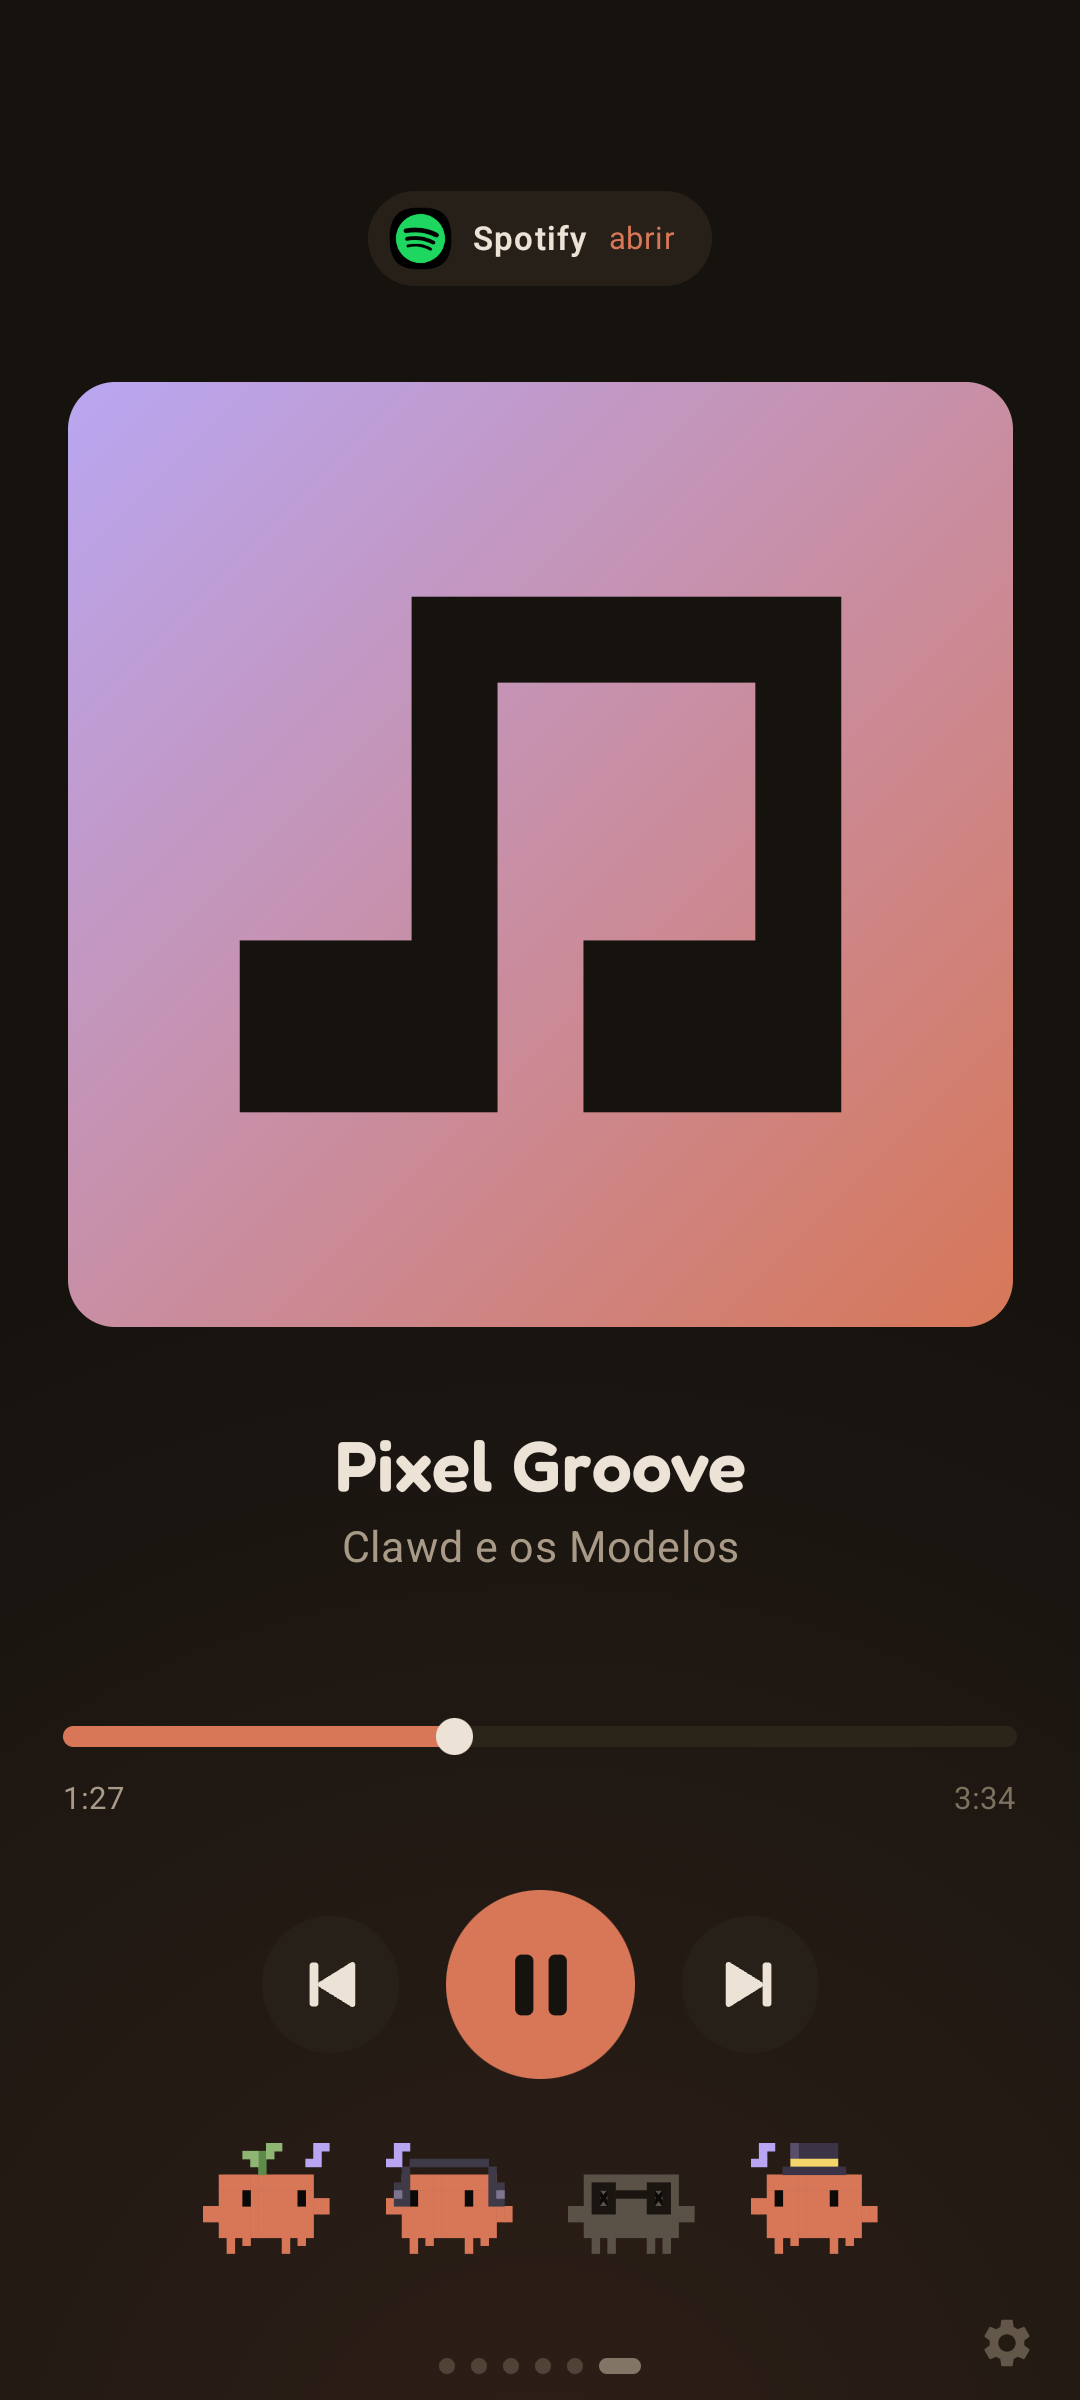
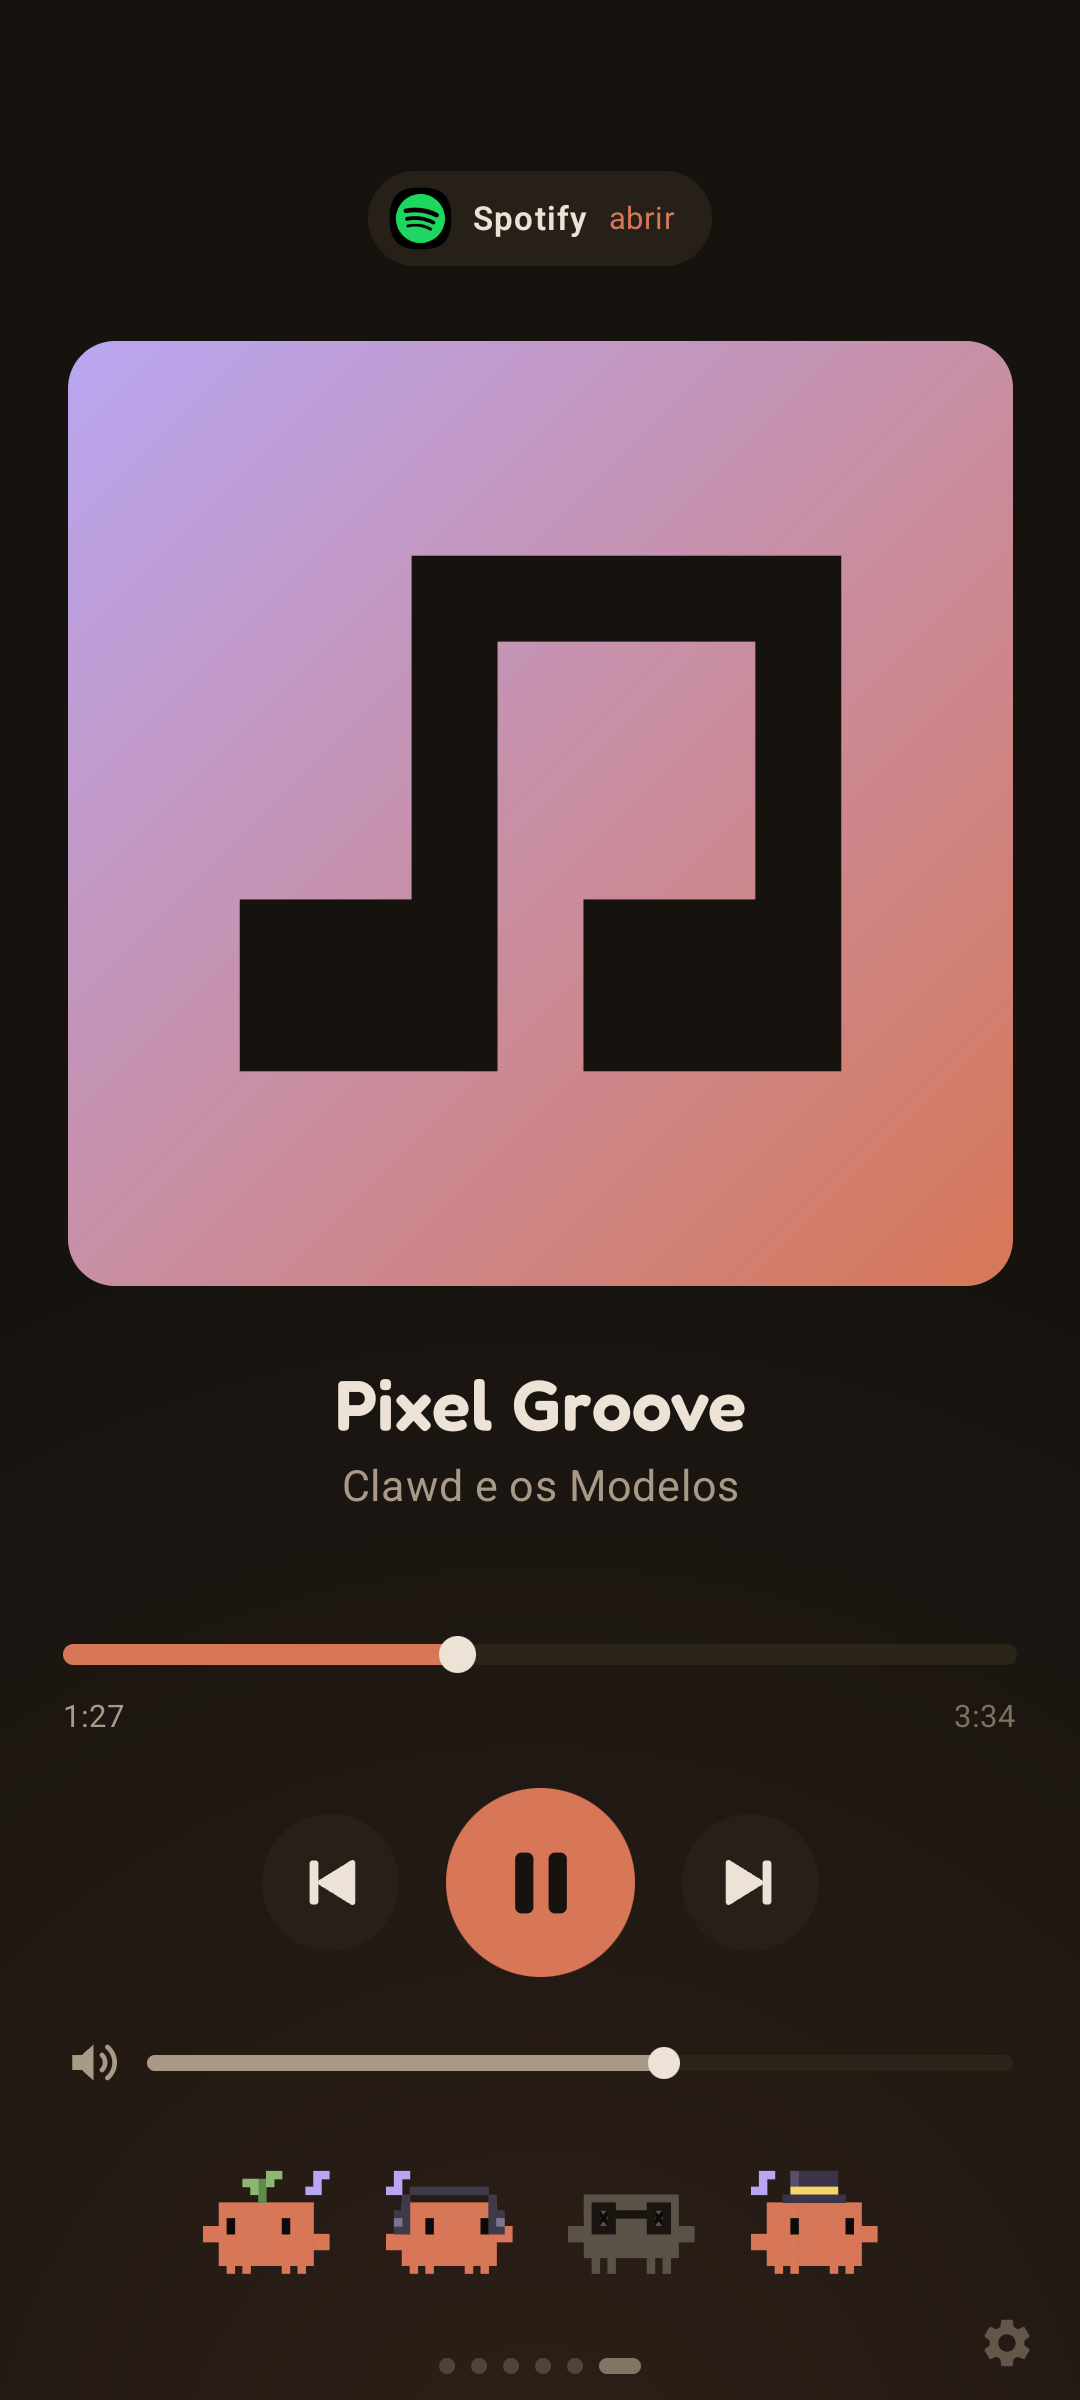
Clawdboard 1.4.1: volume na tela de música
Barra de volume na tela "Tocando agora", ao lado do app em paisagem e
abaixo dos botões em retrato. Ajusta o volume de mídia do celular ou,
quando o app manda o som para outro aparelho, o volume desse aparelho.
Acompanha os botões físicos do celular.

diff --git a/app/src/main/java/dev/clawdboard/ui/MusicPage.kt b/app/src/main/java/dev/clawdboard/ui/MusicPage.kt
@@ -30,8 +30,10 @@ import androidx.compose.foundation.shape.RoundedCornerShape
 import androidx.compose.material3.Text
 import androidx.compose.runtime.Composable
 import androidx.compose.runtime.getValue
+import androidx.compose.runtime.mutableIntStateOf
 import androidx.compose.runtime.mutableStateOf
 import androidx.compose.runtime.remember
+import androidx.compose.runtime.rememberUpdatedState
 import androidx.compose.runtime.setValue
 import androidx.compose.ui.Alignment
 import androidx.compose.ui.Modifier
@@ -43,6 +45,7 @@ import androidx.compose.ui.geometry.Size
 import androidx.compose.ui.graphics.Color
 import androidx.compose.ui.graphics.ColorFilter
 import androidx.compose.ui.graphics.Path
+import androidx.compose.ui.graphics.StrokeCap
 import androidx.compose.ui.graphics.StrokeJoin
 import androidx.compose.ui.graphics.asImageBitmap
 import androidx.compose.ui.graphics.drawscope.Stroke
@@ -65,6 +68,7 @@ import dev.clawdboard.core.Music
 import dev.clawdboard.core.NOTE_PIXELS
 import dev.clawdboard.core.Repository
 import dev.clawdboard.core.Track
+import kotlin.math.roundToInt
 
 private enum class Glyph { PLAY, PAUSE, NEXT, PREV }
 
@@ -97,7 +101,11 @@ fun MusicPage(music: Music, st: Repository.State, landscape: Boolean, compact: B
             Cover(t, Modifier.fillMaxHeight().aspectRatio(1f, matchHeightConstraintsFirst = true))
             Spacer(Modifier.width(if (compact) 22.dp else 32.dp))
             Column(Modifier.weight(1f).fillMaxHeight(), verticalArrangement = Arrangement.SpaceBetween) {
-                AppChip(t.appIcon, t.app, "abrir") { music.open(context) }
+                Row(Modifier.fillMaxWidth(), verticalAlignment = Alignment.CenterVertically) {
+                    AppChip(t.appIcon, t.app, "abrir") { music.open(context) }
+                    Spacer(Modifier.width(20.dp))
+                    VolumeBar(music, Modifier.weight(1f))
+                }
                 TrackText(t, compact, TextAlign.Start)
                 Column {
                     Progress(t, music::seek)
@@ -117,6 +125,7 @@ fun MusicPage(music: Music, st: Repository.State, landscape: Boolean, compact: B
             TrackText(t, compact, TextAlign.Center)
             Progress(t, music::seek)
             Controls(t, music, compact)
+            VolumeBar(music, Modifier.widthIn(max = 360.dp).padding(top = 4.dp, bottom = 10.dp))
             MascotRow(st.status, Modifier.widthIn(max = 300.dp), usage = st.usage, clawdWidth = 48.dp, labels = false)
         }
     }
@@ -222,35 +231,121 @@ private fun Progress(t: Track, onSeek: (Long) -> Unit) {
     val pos = remember(LocalNow.current, t) { t.positionNow() }
     var drag by remember { mutableStateOf<Float?>(null) }
     val f = drag ?: (pos.toFloat() / t.duration).coerceIn(0f, 1f)
-    val seek = if (!t.canSeek) Modifier else Modifier
-        .pointerInput(t.duration) {
-            detectTapGestures { o -> onSeek(((o.x / size.width).coerceIn(0f, 1f) * t.duration).toLong()) }
-        }
-        .pointerInput(t.duration) {
-            detectHorizontalDragGestures(
-                onDragStart = { o -> drag = (o.x / size.width).coerceIn(0f, 1f) },
-                onDragEnd = {
-                    drag?.let { onSeek((it * t.duration).toLong()) }
-                    drag = null
-                },
-                onDragCancel = { drag = null },
-                onHorizontalDrag = { change, _ ->
-                    change.consume()
-                    drag = (change.position.x / size.width).coerceIn(0f, 1f)
-                },
-            )
-        }
     Column(Modifier.fillMaxWidth()) {
-        BoxWithConstraints(Modifier.fillMaxWidth().height(26.dp).then(seek), contentAlignment = Alignment.CenterStart) {
-            Box(Modifier.fillMaxWidth().height(8.dp).clip(RoundedCornerShape(50)).background(C.track)) {
-                if (f > 0f) Box(Modifier.fillMaxHeight().fillMaxWidth(f).clip(RoundedCornerShape(50)).background(C.clawd))
-            }
-            if (t.canSeek) Box(Modifier.offset(x = (maxWidth - 14.dp) * f).size(14.dp).clip(CircleShape).background(C.text))
-        }
+        DragBar(
+            f, t.canSeek, C.clawd, 8.dp, 14.dp,
+            onDrag = { drag = it },
+            onRelease = {
+                onSeek((it * t.duration).toLong())
+                drag = null
+            },
+        )
         Row(Modifier.fillMaxWidth()) {
             Text(fmtTrack(drag?.let { (it * t.duration).toLong() } ?: pos), color = C.muted, fontSize = 13.sp)
             Spacer(Modifier.weight(1f))
             Text(fmtTrack(t.duration), color = C.dim, fontSize = 13.sp)
+        }
+    }
+}
+
+@Composable
+private fun VolumeBar(music: Music, modifier: Modifier) {
+    var version by remember { mutableIntStateOf(0) }
+    val v = remember(LocalNow.current, version) { music.volume() } ?: return
+    var drag by remember { mutableStateOf<Float?>(null) }
+    var sent by remember { mutableIntStateOf(-1) }
+    fun send(f: Float) {
+        val level = (f * v.max).roundToInt()
+        if (level != sent) {
+            sent = level
+            music.setVolume(level)
+        }
+    }
+    val f = drag ?: (v.level.toFloat() / v.max).coerceIn(0f, 1f)
+    Row(modifier, verticalAlignment = Alignment.CenterVertically) {
+        SpeakerIcon(f, C.muted, Modifier.size(20.dp))
+        Spacer(Modifier.width(10.dp))
+        DragBar(
+            f, true, C.muted, 6.dp, 12.dp,
+            onDrag = {
+                drag = it
+                send(it)
+            },
+            onRelease = {
+                send(it)
+                drag = null
+                sent = -1
+                version++
+            },
+            modifier = Modifier.weight(1f).semantics { contentDescription = "Volume" },
+        )
+    }
+}
+
+@Composable
+private fun DragBar(
+    f: Float,
+    enabled: Boolean,
+    color: Color,
+    barHeight: Dp,
+    thumb: Dp,
+    onDrag: (Float) -> Unit,
+    onRelease: (Float) -> Unit,
+    modifier: Modifier = Modifier,
+) {
+    val drag by rememberUpdatedState(onDrag)
+    val release by rememberUpdatedState(onRelease)
+    val gestures = if (!enabled) Modifier else Modifier
+        .pointerInput(Unit) {
+            detectTapGestures { o -> release((o.x / size.width).coerceIn(0f, 1f)) }
+        }
+        .pointerInput(Unit) {
+            var last = 0f
+            detectHorizontalDragGestures(
+                onDragStart = { o ->
+                    last = (o.x / size.width).coerceIn(0f, 1f)
+                    drag(last)
+                },
+                onDragEnd = { release(last) },
+                onDragCancel = { release(last) },
+                onHorizontalDrag = { change, _ ->
+                    change.consume()
+                    last = (change.position.x / size.width).coerceIn(0f, 1f)
+                    drag(last)
+                },
+            )
+        }
+    BoxWithConstraints(modifier.fillMaxWidth().height(thumb + 12.dp).then(gestures), contentAlignment = Alignment.CenterStart) {
+        Box(Modifier.fillMaxWidth().height(barHeight).clip(RoundedCornerShape(50)).background(C.track)) {
+            if (f > 0f) Box(Modifier.fillMaxHeight().fillMaxWidth(f).clip(RoundedCornerShape(50)).background(color))
+        }
+        if (enabled) Box(Modifier.offset(x = (maxWidth - thumb) * f).size(thumb).clip(CircleShape).background(C.text))
+    }
+}
+
+@Composable
+private fun SpeakerIcon(f: Float, color: Color, modifier: Modifier) {
+    Canvas(modifier) {
+        val w = size.width
+        val h = size.height
+        val cone = Path().apply {
+            moveTo(w * 0.08f, h * 0.36f)
+            lineTo(w * 0.26f, h * 0.36f)
+            lineTo(w * 0.48f, h * 0.16f)
+            lineTo(w * 0.48f, h * 0.84f)
+            lineTo(w * 0.26f, h * 0.64f)
+            lineTo(w * 0.08f, h * 0.64f)
+            close()
+        }
+        drawPath(cone, color)
+        val line = w * 0.09f
+        if (f <= 0f) {
+            drawLine(color, Offset(w * 0.64f, h * 0.38f), Offset(w * 0.88f, h * 0.62f), line, StrokeCap.Round)
+            drawLine(color, Offset(w * 0.64f, h * 0.62f), Offset(w * 0.88f, h * 0.38f), line, StrokeCap.Round)
+        } else {
+            val arc = Stroke(width = line, cap = StrokeCap.Round)
+            drawArc(color, -45f, 90f, false, Offset(w * 0.3f, h * 0.5f - w * 0.2f), Size(w * 0.4f, w * 0.4f), style = arc)
+            if (f > 0.5f) drawArc(color, -50f, 100f, false, Offset(w * 0.12f, h * 0.5f - w * 0.38f), Size(w * 0.76f, w * 0.76f), style = arc)
         }
     }
 }

diff --git a/app/src/main/java/dev/clawdboard/core/Music.kt b/app/src/main/java/dev/clawdboard/core/Music.kt
@@ -11,7 +11,9 @@ import android.graphics.LinearGradient
 import android.graphics.Paint
 import android.graphics.Shader
 import android.graphics.drawable.Icon
+import android.media.AudioManager
 import android.media.MediaMetadata
+import android.media.VolumeProvider
 import android.media.session.MediaController
 import android.media.session.MediaSessionManager
 import android.media.session.PlaybackState
@@ -56,6 +58,8 @@ data class Track(
 
 data class MediaApp(val pkg: String, val label: String, val icon: Bitmap?)
 
+data class Volume(val level: Int, val max: Int)
+
 fun livePosition(position: Long, at: Long, speed: Float, playing: Boolean, duration: Long, now: Long): Long {
     val p = if (playing && at > 0 && position >= 0) position + ((now - at) * speed).toLong() else position
     val floor = p.coerceAtLeast(0)
@@ -75,6 +79,8 @@ class Music(private val app: Context) {
     private val main = Handler(Looper.getMainLooper())
     private val sessions = app.getSystemService(MediaSessionManager::class.java)
     private val listener = ComponentName(app, MediaListener::class.java)
+    private val audio = app.getSystemService(AudioManager::class.java)
+    private var demoVolume = 9
 
     private val _track = MutableStateFlow<Track?>(null)
     val track: StateFlow<Track?> = _track.asStateFlow()
@@ -263,6 +269,34 @@ class Music(private val app: Context) {
             return
         }
         current?.transportControls?.seekTo(ms)
+    }
+
+    private fun remoteInfo(): MediaController.PlaybackInfo? =
+        current?.playbackInfo?.takeIf { it.playbackType == MediaController.PlaybackInfo.PLAYBACK_TYPE_REMOTE }
+
+    fun volume(): Volume? {
+        if (demo) return Volume(demoVolume, 15)
+        val remote = remoteInfo()
+        if (remote != null) {
+            if (remote.volumeControl == VolumeProvider.VOLUME_CONTROL_FIXED || remote.maxVolume <= 0) return null
+            return Volume(remote.currentVolume, remote.maxVolume)
+        }
+        if (audio.isVolumeFixed) return null
+        val max = audio.getStreamMaxVolume(AudioManager.STREAM_MUSIC)
+        return if (max <= 0) null else Volume(audio.getStreamVolume(AudioManager.STREAM_MUSIC), max)
+    }
+
+    fun setVolume(level: Int) {
+        if (demo) {
+            demoVolume = level.coerceIn(0, 15)
+            return
+        }
+        val c = current
+        if (c != null && remoteInfo() != null) {
+            c.setVolumeTo(level, 0)
+        } else {
+            runCatching { audio.setStreamVolume(AudioManager.STREAM_MUSIC, level, 0) }
+        }
     }
 
     fun extra(a: TrackAction) {

diff --git a/README.md b/README.md
@@ -49,7 +49,7 @@ Painel web, aberto no navegador do PC pela rede local:
 | Modos de tela | Estático, mascotes, carrossel ou relógio de mesa: dashboard, mascotes grandes, gráfico de 7 dias, notícias da Anthropic e relógio |
 | Histórico de 7 dias | Uma amostra a cada 30 min, no armazenamento interno. Tempo com o app fechado vira buraco no gráfico |
 | Troca de token | Só escrita, testada ao vivo na API antes de salvar, sem reset |
-| Música | Opcional. Mostra capa, faixa e artista do que toca no celular (Spotify, YouTube Music ou qualquer app com player do Android), com play, pausa, anterior, próxima, barra para pular e os botões extras do app. Os mascotes dançam enquanto a música toca |
+| Música | Opcional. Mostra capa, faixa e artista do que toca no celular (Spotify, YouTube Music ou qualquer app com player do Android), com play, pausa, anterior, próxima, barra para pular, volume e os botões extras do app. Os mascotes dançam enquanto a música toca |
 
 Telas: dashboard, **mascotes** (sessão e semana em cima, os quatro Clawds grandes no rodapé com a barra de uso de cada modelo),
 gráfico de 7 dias, notícias, relógio e música (quando ligada). Todas têm layout próprio em paisagem e em retrato; no retrato o relógio empilha horas e minutos.
@@ -69,7 +69,7 @@ Sessão ou semana geral em 100% esgota os quatro; o limite próprio do Fable em 
 Música: ligue em Configurações → Música → "Tela de música". O Clawdboard não toca nada: ele lê e controla o player do app
 que está tocando, pela sessão de mídia do Android. Para isso o Android exige acesso às notificações, que você libera pelo botão
 "Liberar acesso"; o app não lê as notificações, só usa esse acesso para enxergar o player. A tela mostra a capa do álbum, o nome
-e o ícone do app que está tocando (um toque abre o app direto no player, para trocar de playlist), a barra de progresso e os botões.
+e o ícone do app que está tocando (um toque abre o app direto no player, para trocar de playlist), a barra de progresso, os botões e o volume (o de mídia do celular ou, se o app estiver mandando o som para outro aparelho, o desse aparelho).
 Enquanto a música toca, todos os mascotes dançam em todas as telas, no painel web também: com sono acordam e dançam, suados dançam
 suando e esgotados ficam parados batendo o pé. Pausou, eles param. No carrossel a tela de música só entra quando há algo tocando.
 
